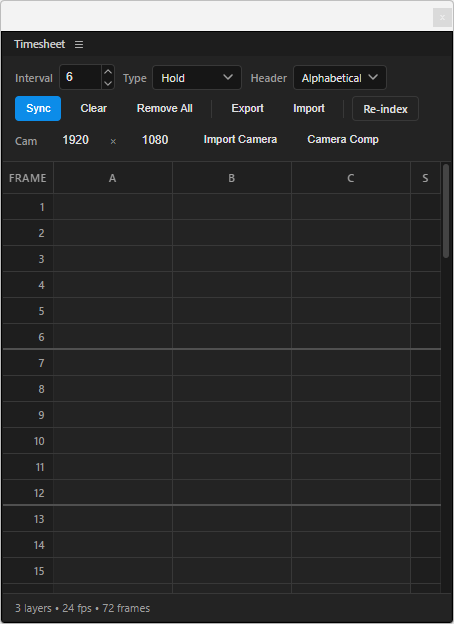
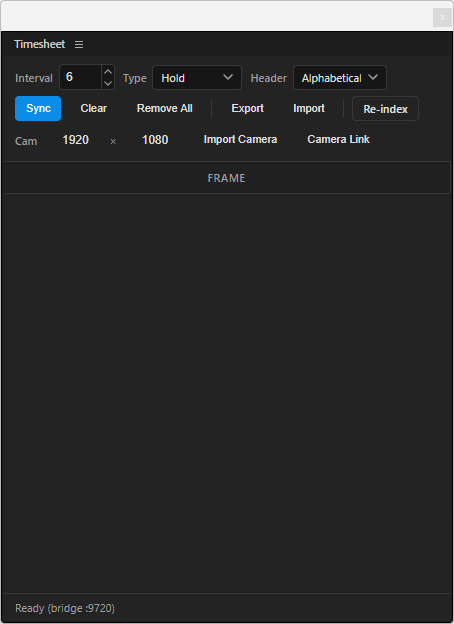
3.1.0

diff --git a/css/styles.css b/css/styles.css
@@ -531,3 +531,108 @@ tbody tr.second-border {
 .data-cell.drop-target {
     background: rgba(12, 140, 233, 0.3) !important;
 }
+
+/* Modal Dialog */
+.modal-overlay {
+    display: none;
+    position: fixed;
+    top: 0; left: 0; right: 0; bottom: 0;
+    background: rgba(0,0,0,0.72);
+    z-index: 999;
+    align-items: center;
+    justify-content: center;
+}
+
+.modal-overlay.open {
+    display: flex;
+}
+
+.modal-box {
+    position: relative;
+    background: var(--panel-bg);
+    border: 1px solid var(--border-color);
+    border-radius: 6px;
+    padding: 20px;
+    min-width: 240px;
+}
+
+.modal-close {
+    position: absolute;
+    top: 8px;
+    right: 8px;
+    display: flex;
+    align-items: center;
+    justify-content: center;
+    width: 24px;
+    height: 24px;
+    padding: 0;
+    border: none;
+    border-radius: 4px;
+    background: transparent;
+    color: #666;
+    cursor: pointer;
+    transition: color 150ms ease, background 150ms ease;
+}
+
+.modal-close:hover {
+    color: var(--text-primary);
+    background: rgba(255,255,255,0.06);
+}
+
+.modal-close:active {
+    color: var(--text-primary);
+    background: rgba(255,255,255,0.1);
+}
+
+.modal-label {
+    font-size: 11px;
+    font-weight: 500;
+    letter-spacing: 0.04em;
+    text-transform: uppercase;
+    color: #888;
+    margin-bottom: 12px;
+    text-align: center;
+}
+
+.modal-options {
+    display: flex;
+    gap: 8px;
+}
+
+.modal-option {
+    flex: 1;
+    display: flex;
+    flex-direction: column;
+    align-items: center;
+    gap: 4px;
+    padding: 14px 16px 12px;
+    border: 1px solid var(--border-color);
+    border-radius: 6px;
+    background: transparent;
+    color: var(--text-primary);
+    cursor: pointer;
+    transition: border-color 150ms ease, background 150ms ease;
+    font-family: inherit;
+}
+
+.modal-option:hover {
+    border-color: #555;
+    background: rgba(255,255,255,0.04);
+}
+
+.modal-option:active {
+    transform: scale(0.97);
+}
+
+.modal-option-label {
+    font-size: 13px;
+    font-weight: 600;
+    line-height: 1.3;
+}
+
+.modal-option-desc {
+    font-size: 10.5px;
+    line-height: 1.35;
+    color: #888;
+    text-align: center;
+}

diff --git a/js/host-funcs.js b/js/host-funcs.js
@@ -940,4 +940,62 @@ function createCompFromSelection(w, h) {
     return "true";
 }
 
+function addCameraLinkExpression(w, h) {
+    var comp = app.project.activeItem;
+    if (!(comp instanceof CompItem)) return "Error: No active comp";
+    var sel = comp.selectedLayers;
+    if (!sel || sel.length === 0) return "Error: No layer selected";
+    app.beginUndoGroup("Add Camera Link Expression");
+    var scaleExpr = 'transform.scale;\\n' +
+        'for (var i = 1; i < source.numLayers + 1; ++i) {\\n' +
+        'bclr = source.layer(i);\\n' +
+        'if (bclr.name.indexOf("camera") == 0 && (bclr.time>=bclr.inPoint) && (bclr.time<bclr.outPoint)){\\n' +
+        'bc = source.layer(i);\\n' +
+        'scl = bc.scale.valueAtTime(time-thisLayer.startTime) * 0.01;\\n' +
+        'while (true){\\n' +
+        'if(!bc.hasParent) break;\\n' +
+        'bc = bc.parent;\\n' +
+        'for (var i=0; i < 2; i++) {scl[i]*=bc.scale.valueAtTime(time-thisLayer.startTime)[i]/100}\\n' +
+        '}\\n' +
+        '[1/scl[0]*transform.scale[0],1/scl[1]*transform.scale[1]]\\n' +
+        'break;}transform.scale;}';
+    var posExpr = 'transform.position;\\n' +
+        'for (var i = 1; i < source.numLayers + 1; ++i) {\\n' +
+        'bclr = source.layer(i);\\n' +
+        'if (bclr.name.indexOf("camera") == 0 && (bclr.time>=bclr.inPoint) && (bclr.time<bclr.outPoint)){\\n' +
+        'source.layer(i).transform.anchorPoint.valueAtTime(time-thisLayer.startTime);\\n' +
+        'break;}transform.position;}';
+    var rotExpr = 'transform.rotation;\\n' +
+        'for (var i = 1; i < source.numLayers + 1; ++i) {\\n' +
+        'bclr = source.layer(i);\\n' +
+        'if (bclr.name.indexOf("camera") == 0 && (bclr.time>=bclr.inPoint) && (bclr.time<bclr.outPoint)){\\n' +
+        'rt = source.layer(i).toWorldVec([1,0,0],time-thisLayer.startTime); -radiansToDegrees(Math.atan2(rt[1],rt[0]));\\n' +
+        'break;}transform.rotation;}';
+    var anchorExpr = 'transform.anchorPoint;\\n' +
+        'for (var i = 1; i < source.numLayers + 1; ++i) {\\n' +
+        'bclr = source.layer(i);\\n' +
+        'if (bclr.name.indexOf("camera") == 0 && (bclr.time>=bclr.inPoint) && (bclr.time<bclr.outPoint)){\\n' +
+        'bc = source.layer(i);\\n' +
+        'bc.toWorld(bc.anchorPoint.valueAtTime(time-thisLayer.startTime));\\n' +
+        'break;}transform.anchorPoint;}';
+    for (var s = 0; s < sel.length; s++) {
+        var layer = sel[s];
+        var t = layer.property("ADBE Transform Group");
+        if (t) {
+            try {
+                var scaleProp = t.property("ADBE Scale");
+                if (scaleProp && scaleProp.canSetExpression) scaleProp.expression = scaleExpr;
+                var posProp = t.property("ADBE Position");
+                if (posProp && posProp.canSetExpression) posProp.expression = posExpr;
+                var rotProp = t.property("ADBE Rotate Z");
+                if (rotProp && rotProp.canSetExpression) rotProp.expression = rotExpr;
+                var anchorProp = t.property("ADBE Anchor Point");
+                if (anchorProp && anchorProp.canSetExpression) anchorProp.expression = anchorExpr;
+            } catch (e) {}
+        }
+    }
+    app.endUndoGroup();
+    return "true";
+}
+
 `;

diff --git a/js/events.js b/js/events.js
@@ -569,12 +569,49 @@ function importCameraFromXdts() {
 function newCompFromSelection() {
     var w = parseInt(document.getElementById('camWidth').value) || 1920;
     var h = parseInt(document.getElementById('camHeight').value) || 1080;
-    updateStatus('Creating comp from selection...');
-    csInterface.evalScript('createCompFromSelection(' + w + ',' + h + ')', function (res) {
-        if (res === 'true') {
-            updateStatus('Camera comp created (' + w + 'x' + h + ')');
-        } else {
-            updateStatus('Comp failed: ' + res);
-        }
-    });
+    var modal = document.getElementById('cameraCompModal');
+    modal.classList.add('open');
 }
+
+document.addEventListener('click', function (e) {
+    var btn = e.target.closest('#cameraCompModal [data-mode]');
+    if (!btn) return;
+    var modal = document.getElementById('cameraCompModal');
+    var mode = btn.dataset.mode;
+    modal.classList.remove('open');
+
+    var w = parseInt(document.getElementById('camWidth').value) || 1920;
+    var h = parseInt(document.getElementById('camHeight').value) || 1080;
+
+    if (mode === 'comp') {
+        updateStatus('Creating comp from selection...');
+        csInterface.evalScript('createCompFromSelection(' + w + ',' + h + ')', function (res) {
+            if (res === 'true') {
+                updateStatus('Camera comp created (' + w + 'x' + h + ')');
+            } else {
+                updateStatus('Comp failed: ' + res);
+            }
+        });
+    } else if (mode === 'link') {
+        updateStatus('Adding camera link expressions...');
+        csInterface.evalScript('addCameraLinkExpression(' + w + ',' + h + ')', function (res) {
+            if (res === 'true') {
+                updateStatus('Camera link expressions added');
+            } else {
+                updateStatus('Link failed: ' + res);
+            }
+        });
+    }
+});
+
+// Close modal on overlay click
+document.getElementById('cameraCompModal').addEventListener('click', function (e) {
+    if (e.target === this) {
+        this.classList.remove('open');
+    }
+});
+
+// Close modal on X button click
+document.getElementById('cameraCompClose').addEventListener('click', function () {
+    document.getElementById('cameraCompModal').classList.remove('open');
+});

diff --git a/index.html b/index.html
@@ -79,7 +79,7 @@
                     <input type="number" class="cam-input" id="camHeight" value="1080" min="1" max="99999">
                 </div>
                 <button class="btn btn-ghost" id="importCamXdtsBtn">Import Camera</button>
-                <button class="btn btn-ghost" id="newCompFromSelBtn">Camera Comp</button>
+                <button class="btn btn-ghost" id="newCompFromSelBtn">Camera Link</button>
             </div>
         </div>
     </div>
@@ -94,6 +94,27 @@
             <tbody id="tableBody">
             </tbody>
         </table>
+    </div>
+
+    <div class="modal-overlay" id="cameraCompModal">
+        <div class="modal-box">
+            <button class="modal-close" id="cameraCompClose">
+                <svg width="14" height="14" viewBox="0 0 14 14" fill="none">
+                    <path d="M2 2L12 12M12 2L2 12" stroke="currentColor" stroke-width="1.2" stroke-linecap="round" />
+                </svg>
+            </button>
+            <div class="modal-label">Camera Link</div>
+            <div class="modal-options">
+                <button class="modal-option" data-mode="comp">
+                    <span class="modal-option-label">Comp</span>
+                    <span class="modal-option-desc">New comp from selection with camera link</span>
+                </button>
+                <button class="modal-option" data-mode="link">
+                    <span class="modal-option-label">Link</span>
+                    <span class="modal-option-desc">Add camera expressions to selected layers</span>
+                </button>
+            </div>
+        </div>
     </div>
 
     <div id="status">Ready</div>

diff --git a/README.md b/README.md
@@ -38,7 +38,7 @@ Tools for importing and synchronizing camera keyframe.
 | Feature           | Description                                                                                  |
 | ----------------- | -------------------------------------------------------------------------------------------- |
 | **Import Camera** | Import camera keyframe data from `.xdts`.                                                   |
-| **Camera Comp**   | Create a new composition from the selected layers and synchronize camera data automatically. |
+| **Camera Comp**   | Opens a dialog with two modes: **Comp** (new comp from selection with camera link) and **Link** (add camera expressions to selected layers). |
 
 ---
 
@@ -94,5 +94,3 @@ C:\Program Files (x86)\Common Files\Adobe\CEP\extensions
 ## License
 
 This project is licensed under the **MIT License**.
-
----